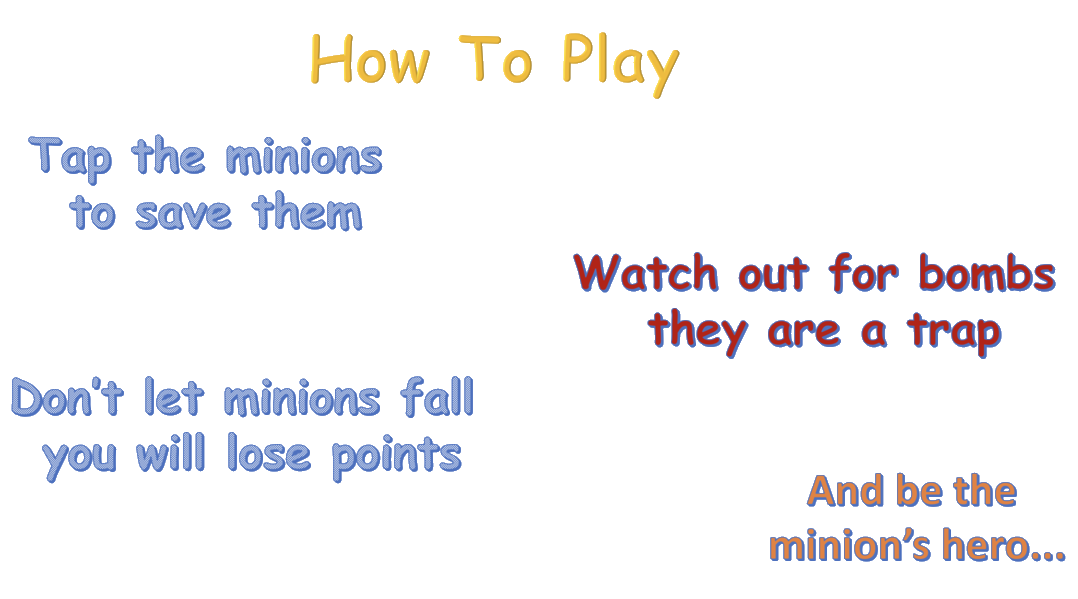
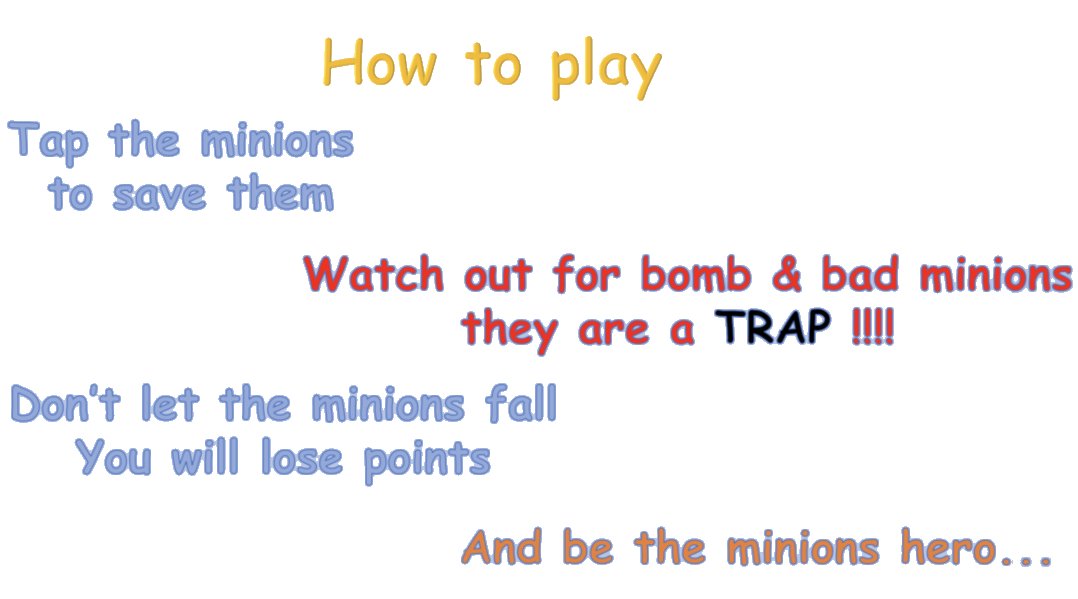
Updated the how-to screen and added -10 animation for bad minion

diff --git a/setup/src/StoryHowto.js b/setup/src/StoryHowto.js
@@ -10,13 +10,13 @@ SaveTheMinions.StoryHowto.prototype = {
 	showStory: function() {
 		var background = this.game.add.sprite(0, 0, 'main_menu_background');
 		background.tint = 0xFFFFBF;
-		var howToText = this.game.add.sprite(250,0, 'how_to_text');
-		var bomb = this.game.add.sprite(750,275, 'bomb');
-		var minionIcon = this.game.add.sprite(650,150,'minions_spritesheet');
+		var howToText = this.game.add.sprite(330,0, 'how_to_text');
+		var bomb = this.game.add.sprite(710,300, 'bomb');
+		var badminion = this.game.add.sprite(1250,290, 'badminion_small');
 
-        minionEmitter = this.game.add.emitter(this.game.world.centerX + 70, 420, 0);
-        minionEmitter.makeParticles('minion_falling');
-        minionEmitter.start(false, 100, 50);
+		var minionIcon = this.game.add.sprite(700,110,'minions_spritesheet');
+        var minionFalling = this.game.add.sprite(this.game.world.centerX + 130, 400, "minion_falling");
+        this.startBounceTween(minionFalling);
 
 		playButton = this.add.button(800, 640, 'playBtn', function(){this.game.state.start('Game')}, this, 1, 0, 2);
 		playButton.input.useHandCursor = true;
@@ -35,5 +35,11 @@ SaveTheMinions.StoryHowto.prototype = {
 		        backButton.x -= 20;
 		    }
 		}, 100);
-	}
+	},
+	startBounceTween : function(minionFalling) {
+        var bounce = this.game.add.tween(minionFalling)
+                                  .to({ y: this.game.world.height - minionFalling.height }, 1000 + Math.random() * 3000, Phaser.Easing.Bounce.In);
+        bounce.onComplete.add(this.startBounceTween, this);
+        bounce.start();
+    }
 };

diff --git a/setup/src/Preloader.js b/setup/src/Preloader.js
@@ -35,6 +35,7 @@ SaveTheMinions.Preloader.prototype = {
             this.game.load.image('score-1-points', 'img/plusOne.gif');
             this.game.load.image('score-2-points', 'img/plusTwo.gif');
             this.game.load.image('score-3-points', 'img/plusThree.gif');
+            this.game.load.image('score-minus-ten', 'img/minusTen.gif');
 
             this.game.load.image('levelBtn', 'img/btn_select_level.png');
             this.game.load.image('paused', 'img/paused.png');
@@ -74,6 +75,7 @@ SaveTheMinions.Preloader.prototype = {
             this.game.load.spritesheet('minions_spritesheet', 'img/minions_spritesheet.png', 78.2, 90, 3);
             this.game.load.spritesheet('hunger-meter', 'img/hunger-meter.png', 289, 45);
             this.game.load.image('badminion', 'img/badminion.png');
+            this.game.load.image('badminion_small', 'img/badminion_small.png');
             // Adding new spritesheet for bigger minions.
             this.game.load.spritesheet('big_minions', 'img/big_minions_spritesheet.png', 165, 250, 3);
     },

diff --git a/setup/src/GameAdvanced.js b/setup/src/GameAdvanced.js
@@ -221,7 +221,7 @@ SaveTheMinions.GameAdvanced.prototype = {
                 // sound for badminion
                 minionSelect2.play();
                 // score for badminion
-                scoreMinion = this.game.add.sprite(spriteX, spriteY, 'score-3-points');
+                scoreMinion = this.game.add.sprite(spriteX, spriteY, 'score-minus-ten');
             }
             var playAnimation = scoreMinion.animations.add('playAnimation');
             scoreMinion.anchor.setTo(0.5, 0.5);
